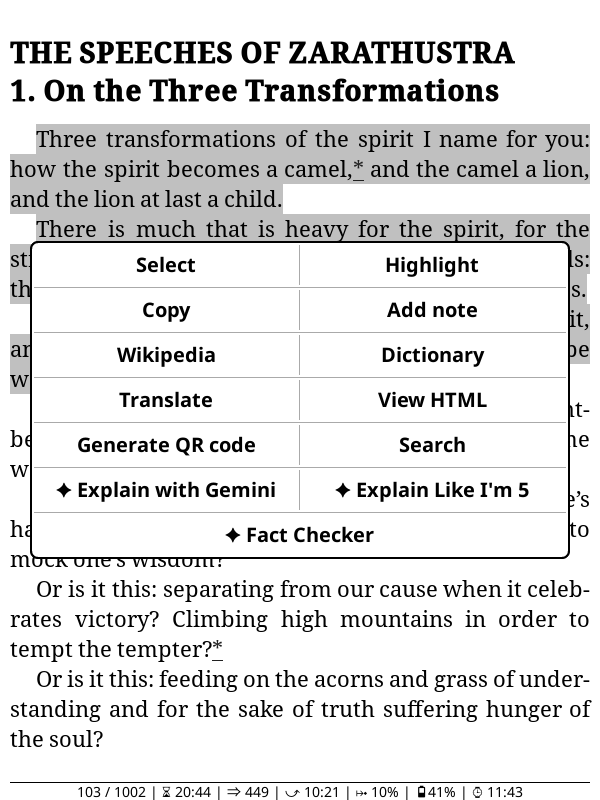
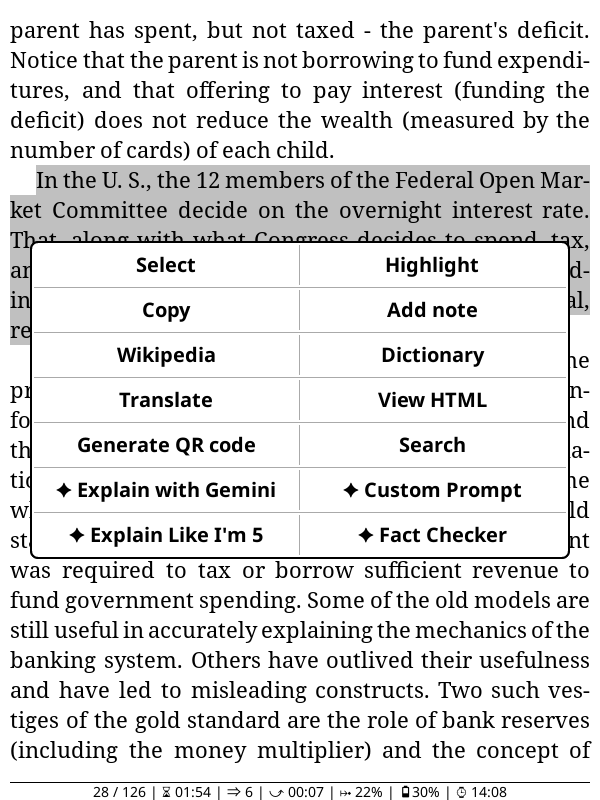
Added custom prompts

Changed region(s): [[0.0, 0.0312, 0.99, 1.0], [0.57, 0.5938, 0.9, 0.625]]

diff --git a/README.md b/README.md
@@ -5,6 +5,7 @@ This is going to be a simple tool that will do a few things but do them well. Th
   <img src="Screenshots/highlight_menu.png" alt="Highlight menu" width="27%" />
   <img src="Screenshots/eli5_button.png" alt="ELI5 feature" width="27%" />
   <img src="Screenshots/factcheck_button.png" alt="Fact checker" width="27%" />
+  <img src="Screenshots/custom_button.png" alt="Custom button" width="27%" />
   <img src="Screenshots/mainmenu.png" alt="Settings menu" width="27%" />
   <img src="Screenshots/QR code.png" alt="QR code" width="27%" />
 </p>
@@ -13,6 +14,7 @@ This is going to be a simple tool that will do a few things but do them well. Th
 - Explain with Gemini: Generic summary and explanation prompt.
 - Fact Checker: Checks claims against external fact and scrutinises propositions and arguments.
 - Explain Like I'm 5: Summary and explanation taylored to a layman and containing more real-world examples and without jargon.
+- Custom Button: Executes a user-selected prompt which can be set in the top main menu bar.
 
 Read about future changes [here](FEATURE_PIPELINE.md)
 

diff --git a/FEATURE_PIPELINE.md b/FEATURE_PIPELINE.md
@@ -1,6 +1,10 @@
-- Easy API key: enter your API key through a localhost page on your phone accessed by scanning a QR code on the e-reader.
 - Better settings/more customisation
     - Model selection from dropdown menu
     - Localhost settings
     - Custom skills
 - Expanded local context: add option to request with expanded context (chapter or something) instead of just the passage and metadata.
+- Custom prompts:
+    - Memory anchor: remind the user of who or what something is in the book they are reading. Useful for fiction.
+    - Bridge to today: make a modern analogy to help the user understand concepts.
+    - Persona: respond or explain something through a certain character/persona.
+    - Configurable custom prompts using localhost.
